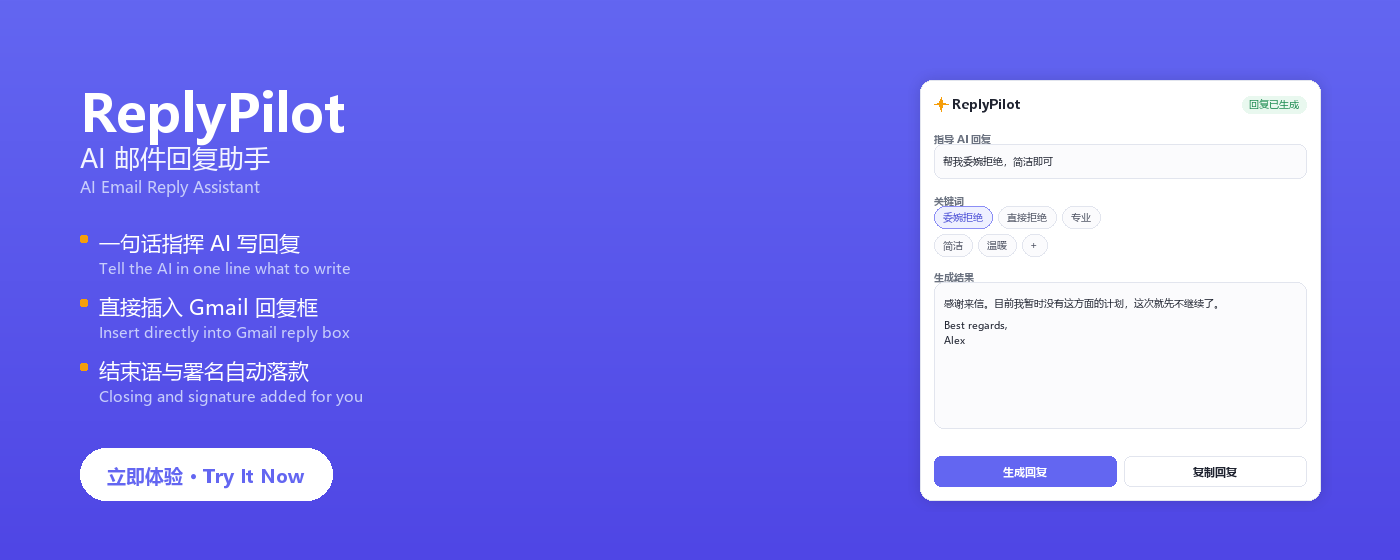
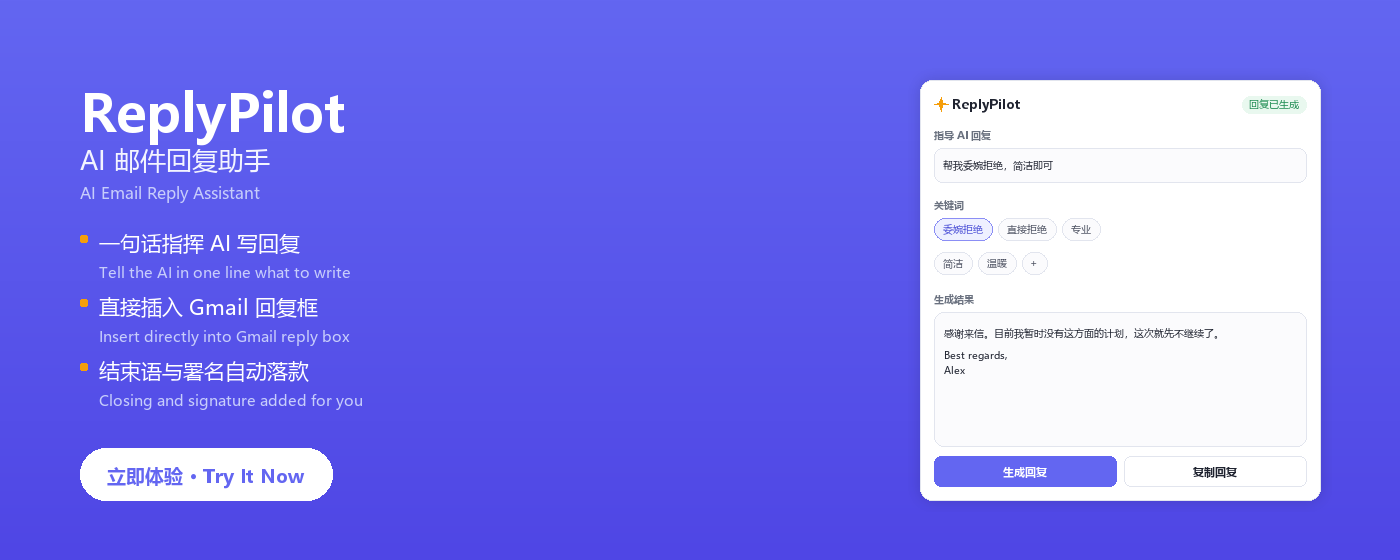
promo 优化：卡片 mock 标签防遮挡、chips 行距加大，标题栈与 bullet 间距均衡

diff --git a/scripts/generate-store-promo.py b/scripts/generate-store-promo.py
@@ -139,19 +139,19 @@ def draw_card_mockup(draw, x, y, w, h, compact=False):
     draw_text(draw, (X(bx0 + badge_w_ref / 2), Y(24.5)), status,
               fill=COLORS["green"], font=f_chip, anchor="mm")
 
-    # guidance input
-    draw_text(draw, (X(pad), Y(52)), "指导 AI 回复", fill=COLORS["text_sub"], font=f_label)
-    rounded_rect(draw, (X(pad), Y(64), X(CARD_REF_W - pad), Y(98)),
+    # guidance input (label sits 7px clear of the box below it)
+    draw_text(draw, (X(pad), Y(48)), "指导 AI 回复", fill=COLORS["text_sub"], font=f_label)
+    rounded_rect(draw, (X(pad), Y(68), X(CARD_REF_W - pad), Y(102)),
                  fill=COLORS["input_bg"], radius=max(3, int(8 * s)),
                  outline=COLORS["input_border"], width=1)
-    draw_text(draw, (X(pad + 9), Y(81)), "帮我委婉拒绝，简洁即可",
+    draw_text(draw, (X(pad + 9), Y(85)), "帮我委婉拒绝，简洁即可",
               fill=COLORS["text_dark"], font=f_body, anchor="lm")
 
-    # keyword chips (two rows, first chip active)
-    draw_text(draw, (X(pad), Y(114)), "关键词", fill=COLORS["text_sub"], font=f_label)
+    # keyword chips (two rows, first chip active; 12px between rows)
+    draw_text(draw, (X(pad), Y(118)), "关键词", fill=COLORS["text_sub"], font=f_label)
     chips = [(["委婉拒绝", "直接拒绝", "专业"], True),
              (["简洁", "温暖", "+"], False)]
-    cy = 126
+    cy = 138
     for row, active_first in chips:
         cx = pad                                        # cursor, in ref units
         for i, label in enumerate(row):
@@ -165,15 +165,16 @@ def draw_card_mockup(draw, x, y, w, h, compact=False):
             draw_text(draw, (X(cx + cw_ref / 2), Y(cy + 11)), label,
                       fill="#4b4fd6" if active else "#4b5060", font=f_chip, anchor="mm")
             cx += cw_ref + 6
-        cy += 28
+        cy += 34
+    assert cy - 34 + 22 <= 212 - 6, "chip rows crowd the output label"
 
     # output box
-    draw_text(draw, (X(pad), Y(190)), "生成结果", fill=COLORS["text_sub"], font=f_label)
-    rounded_rect(draw, (X(pad), Y(202), X(CARD_REF_W - pad), Y(348)),
+    draw_text(draw, (X(pad), Y(212)), "生成结果", fill=COLORS["text_sub"], font=f_label)
+    rounded_rect(draw, (X(pad), Y(232), X(CARD_REF_W - pad), Y(366)),
                  fill=COLORS["input_bg"], radius=max(4, int(10 * s)),
                  outline=COLORS["input_border"], width=1)
     body = "感谢来信。目前我暂时没有这方面的计划，这次就先不继续了。"
-    yy = 216
+    yy = 246
     if compact:
         body = "感谢来信，这次先不继续了。"
     # simple character wrap against the inner width
@@ -197,6 +198,7 @@ def draw_card_mockup(draw, x, y, w, h, compact=False):
 
     # actions
     by = CARD_REF_H - pad - 30
+    assert by - 366 >= 8, "output box crowds the action buttons"  # ref units (proportional)
     col_w = (CARD_REF_W - pad * 2 - 8) / 2
     rounded_rect(draw, (X(pad), Y(by), X(pad + col_w), Y(by + 30)),
                  fill=COLORS["primary"], radius=max(4, int(7 * s)))
@@ -258,14 +260,14 @@ def draw_large_promo(W, H):
     top_y = 76
 
     draw_text(draw, (left_x, top_y), "ReplyPilot", fill=COLORS["white"], font=F["title"])
-    draw_text(draw, (left_x, top_y + 64), "AI 邮件回复助手", fill=COLORS["off_white"],
+    draw_text(draw, (left_x, top_y + 66), "AI 邮件回复助手", fill=COLORS["off_white"],
               font=F["subtitle"])
-    draw_text(draw, (left_x, top_y + 100), "AI Email Reply Assistant", fill=COLORS["sub"],
+    draw_text(draw, (left_x, top_y + 106), "AI Email Reply Assistant", fill=COLORS["sub"],
               font=F["sub_en"])
 
     bullets_top = top_y + 152
     block_bottom = draw_bullets(draw, left_x, bullets_top, BULLETS, F["bullet"],
-                                F["bullet_en"], pitch=64, gap=30)
+                                F["bullet_en"], pitch=64, gap=34)
 
     btn_w, btn_h = 252, 52
     btn_x, btn_y = left_x, H - 112
@@ -309,14 +311,14 @@ def draw_small_promo(W, H):
     top_y = 26
 
     draw_text(draw, (left_x, top_y), "ReplyPilot", fill=COLORS["white"], font=F["title"])
-    draw_text(draw, (left_x, top_y + 40), "AI 邮件回复助手", fill=COLORS["off_white"],
+    draw_text(draw, (left_x, top_y + 42), "AI 邮件回复助手", fill=COLORS["off_white"],
               font=F["subtitle"])
-    draw_text(draw, (left_x, top_y + 60), "AI Email Reply Assistant", fill=COLORS["sub"],
+    draw_text(draw, (left_x, top_y + 68), "AI Email Reply Assistant", fill=COLORS["sub"],
               font=F["sub_en"])
 
-    bullets_top = top_y + 96
+    bullets_top = top_y + 104
     block_bottom = draw_bullets(draw, left_x, bullets_top, BULLETS_SMALL, F["bullet"],
-                                F["bullet_en"], pitch=46, gap=18)
+                                F["bullet_en"], pitch=46, gap=20)
 
     btn_w, btn_h = 168, 42
     btn_x, btn_y = left_x, H - 56

diff --git a/.codebuddy/memory/2026-09-29.md b/.codebuddy/memory/2026-09-29.md
@@ -299,6 +299,16 @@
 - 修法：图标（已是 y+16）、label（改 "lm" @ y+16）、计数（"rm" 从 y+10 → y+16）统一以行中心对齐。
 - 经验：**同一行内的多段文字一律用 "lm"/"rm" 锚到同一 cy**，不要混用顶对齐 + 不同字号（小字号顶对齐时视觉中心必然偏高）。
 
+## 第十八轮：邮件头部间距与对齐（commit 2060fda，已 push）
+
+用户圈出邮件标题区："这个标题也要调整一下间距和对齐"。三处问题一次修：
+1. 日期 rm@y=198 悬在发件人姓名上方 → 改 rm@**y=207**（头像 190..224 的圆心，即发件人行垂直中心）。
+2. 主题（y=158，底部 ~184）与头像（190）仅 6px → 主题上移到 y=**148**，间距放宽到 ~16px。
+3. 图标行 cy 112 → **108**，避免主题上移后头顶过空。
+- 头部节奏现为：卡片顶 80 → 图标 108 → 主题 148 → 发件人 190..224 → 横幅 250 → 正文 320。
+- 至此截图的局部对齐问题（孤儿行、贴边、侧栏、顶栏、头部）已全部清完；若再改布局，逐条对照 QA 清单的"容器内边距 ≥16px / 同行 lm-rm 同 cy"两条经验。
+
+
 
 
 
